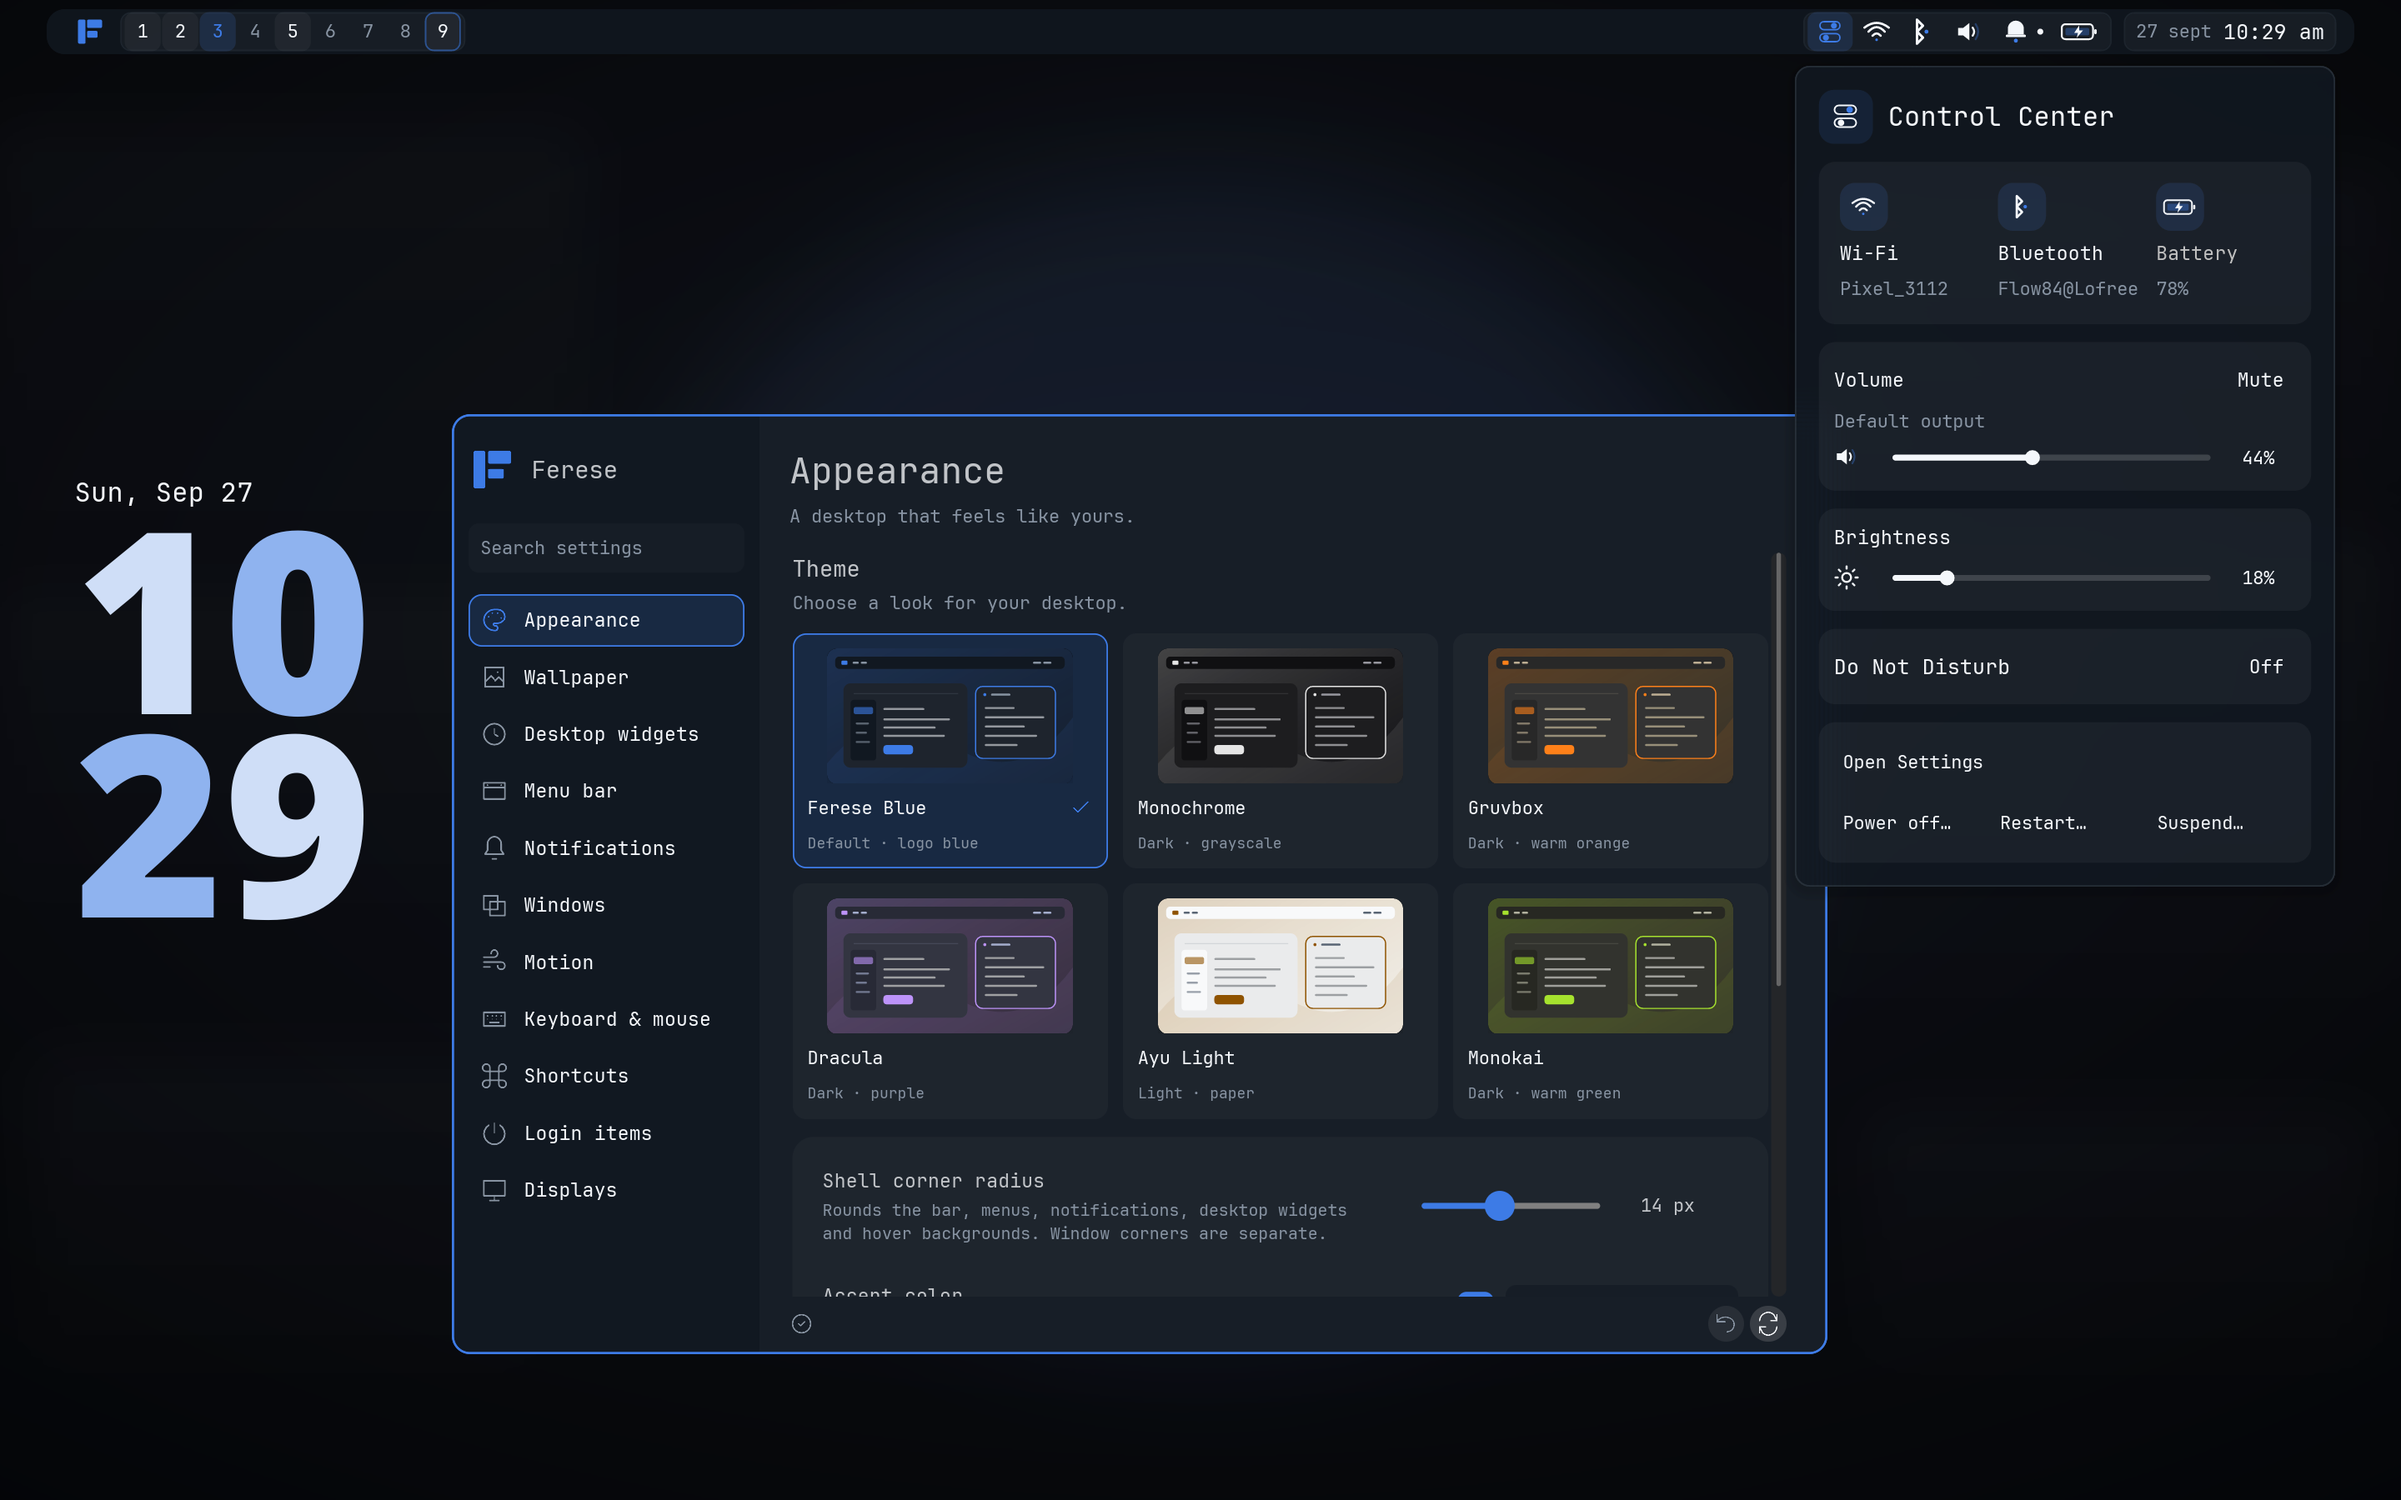
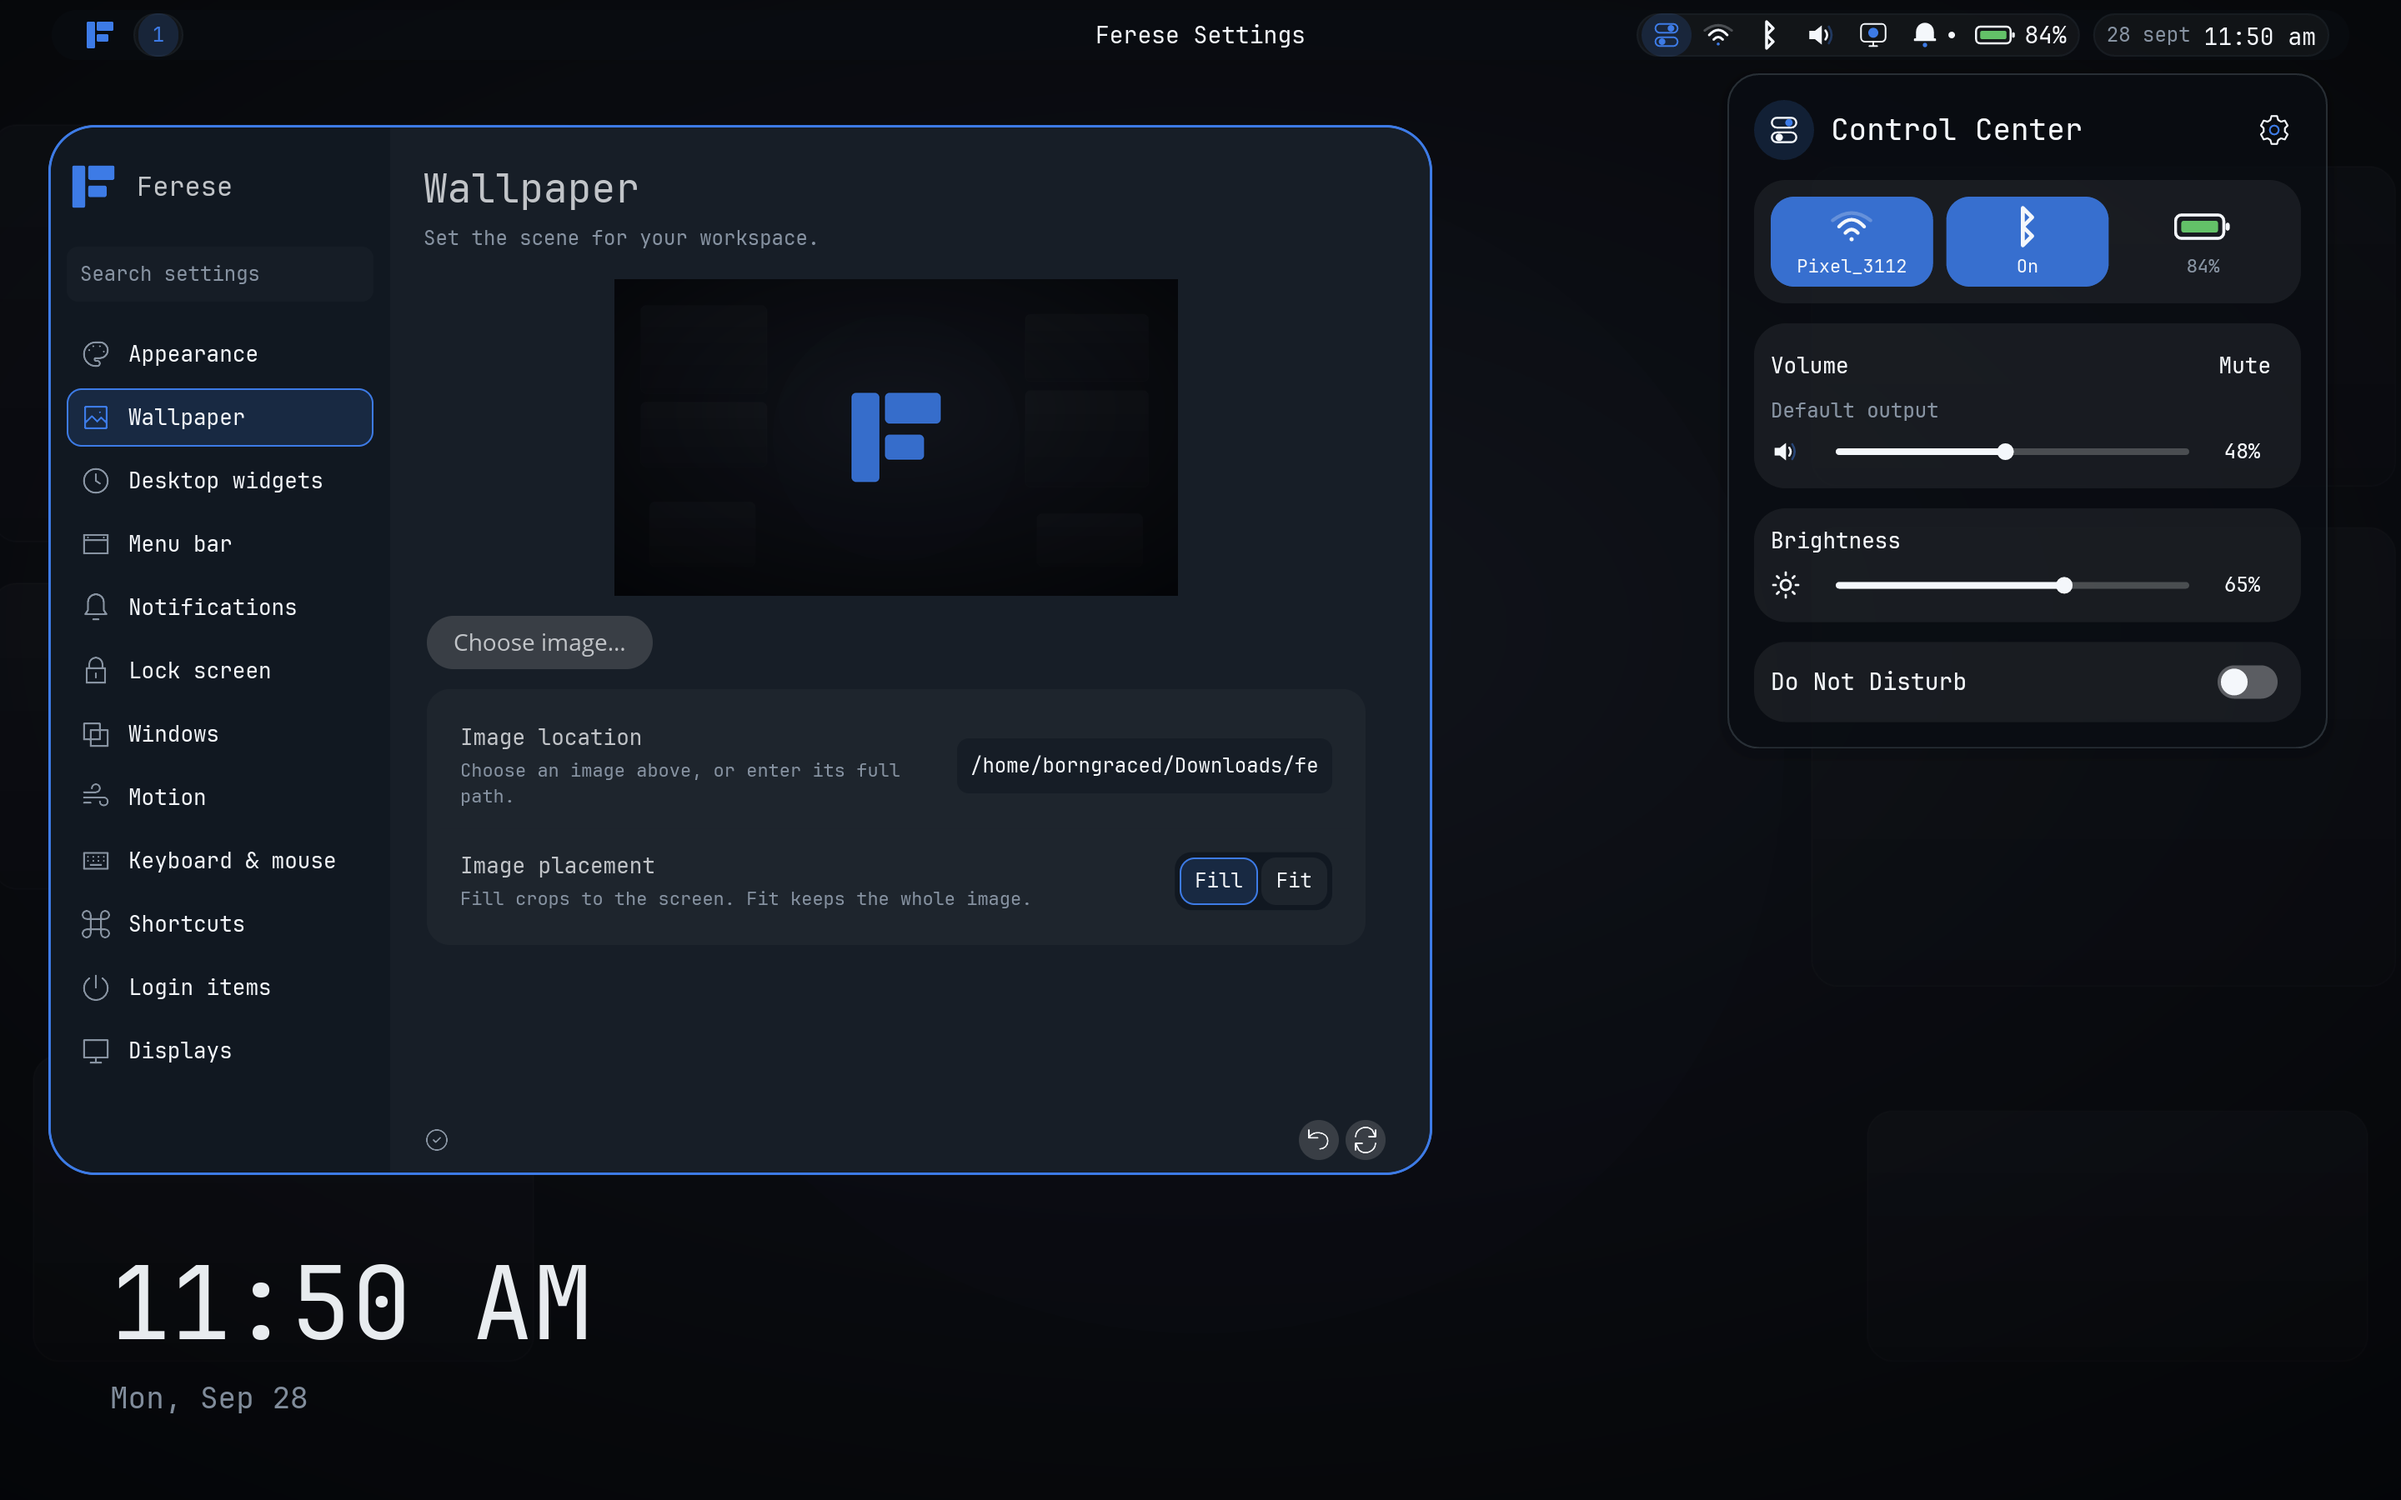
Refresh desktop screenshots across the website and README

diff --git a/site/index.html b/site/index.html
@@ -63,11 +63,11 @@
       </section>
       <figure class="product-screenshot page-width">
         <a
-          href="assets/ferese-desktop.png"
+          href="assets/ferese-desktop.webp"
           aria-label="View the full-resolution Ferese desktop screenshot"
         >
           <img
-            src="assets/ferese-desktop.png"
+            src="assets/ferese-desktop.webp"
             width="2880"
             height="1800"
             alt="Ferese Blue desktop with the default wallpaper, Settings, Control Center and clock widget"

diff --git a/scripts/build-site.py b/scripts/build-site.py
@@ -27,8 +27,7 @@ for name in ('index.html', 'styles.css', 'app.js'):
     shutil.copy2(ROOT / 'site' / name, OUTPUT / name)
 (OUTPUT / 'assets').mkdir(exist_ok=True)
 shutil.copytree(ROOT / 'site/assets', OUTPUT / 'assets', dirs_exist_ok=True)
-for name in ('ferese-desktop.png', 'ferese-monochrome.png'):
-    shutil.copy2(ROOT / 'docs/images' / name, OUTPUT / 'assets' / name)
+shutil.copytree(ROOT / 'docs/images', OUTPUT / 'assets', dirs_exist_ok=True)
 shutil.copy2(ROOT / 'packaging/icons/ferese.svg', OUTPUT / 'assets/ferese.svg')
 (OUTPUT / 'docs').mkdir(exist_ok=True)
 (OUTPUT / '.nojekyll').touch()
@@ -71,6 +70,16 @@ for page_number, (slug, title, source) in enumerate(PAGES):
         for child in token.children or []:
             if child.type == 'link_open':
                 child.attrSet('href', rewrite_link(child.attrGet('href'), source))
+            elif child.type == 'image':
+                image = urlsplit(child.attrGet('src'))
+                if not image.scheme and not image.netloc:
+                    path = (source.parent / image.path).resolve()
+                    relative = path.relative_to(ROOT / 'docs/images')
+                    if not path.is_file():
+                        raise FileNotFoundError(path)
+                    child.attrSet('src', f'../assets/{relative.as_posix()}')
+                child.attrSet('loading', 'lazy')
+                child.attrSet('decoding', 'async')
     search_index.extend(sections)
     body = md.renderer.render(tokens, md.options, {})
     body = body.replace('<table>', '<div class="table-scroll" tabindex="0" role="region" aria-label="Reference table"><table>').replace('</table>', '</table></div>')

diff --git a/README.md b/README.md
@@ -16,9 +16,9 @@ shell, native settings, live-reloading themes and wallpapers, desktop widgets,
 fluid animations, and scrolling and tiling layouts work together as one
 cohesive experience—beautiful by default and unmistakably yours.
 
-![Ferese desktop with a stacked clock widget, compact workspace bar, and control center](docs/images/ferese-desktop.png)
+![Ferese Blue desktop with Settings, Control Center, and a clock widget](docs/images/ferese-desktop.webp)
 
-## One cohesive desktop
+## Why Ferese
 
 - **Flexible layouts:** scrolling columns, tree tiling, floating windows and a
   workspace overview.
@@ -31,6 +31,11 @@ cohesive experience—beautiful by default and unmistakably yours.
 - **Screen sharing:** a native display picker and PipeWire video streams for
   portal-compatible recording and conferencing apps.
 
+![Ferese Overview showing open windows and two workspace thumbnails](docs/images/ferese-overview.webp)
+
+The overview brings windows and workspaces into one view. Read more about
+[why Ferese builds the compositor and shell together](docs/why-ferese.md).
+
 ## Make it yours
 
 Use the native Settings app for everyday customization, or edit
@@ -38,7 +43,7 @@ Use the native Settings app for everyday customization, or edit
 changes as you make them and keeps the last working configuration if an edit is
 invalid.
 
-![Ferese Settings showing the Monochrome theme and appearance presets](docs/images/ferese-monochrome.png)
+![Ferese Settings and Control Center sharing the Gruvbox theme](docs/images/ferese-gruvbox.webp)
 
 Choose a preset or build your own look. Window behavior, gestures, shortcuts,
 rules, displays, widgets and login items are configurable too. Start with the

diff --git a/docs/why-ferese.md b/docs/why-ferese.md
@@ -43,6 +43,8 @@ widgets, and native lock screen together. Managed windows have their own radius
 because they are a different kind of surface, but each value still has one clear
 meaning wherever it is used.
 
+![Ferese Settings and Control Center sharing the Gruvbox theme](images/ferese-gruvbox.webp)
+
 In an assembled desktop, making the same visual change may mean editing the
 window manager, bar CSS, launcher theme, notification daemon, and lock screen
 config separately, then keeping those values aligned as the setup changes.
@@ -52,6 +54,8 @@ scrolling as part of its workspace model, renders blur behind shell surfaces in
 the compositor, and builds the overview from the real window scene. Focus,
 fullscreen, workspace geometry, and input all work from the same state rather
 than waiting for separate tools to catch up with one another.
+
+![Ferese Overview showing open windows and two workspace thumbnails](images/ferese-overview.webp)
 
 When a window opens, Ferese can handle the result as one transition:
 
